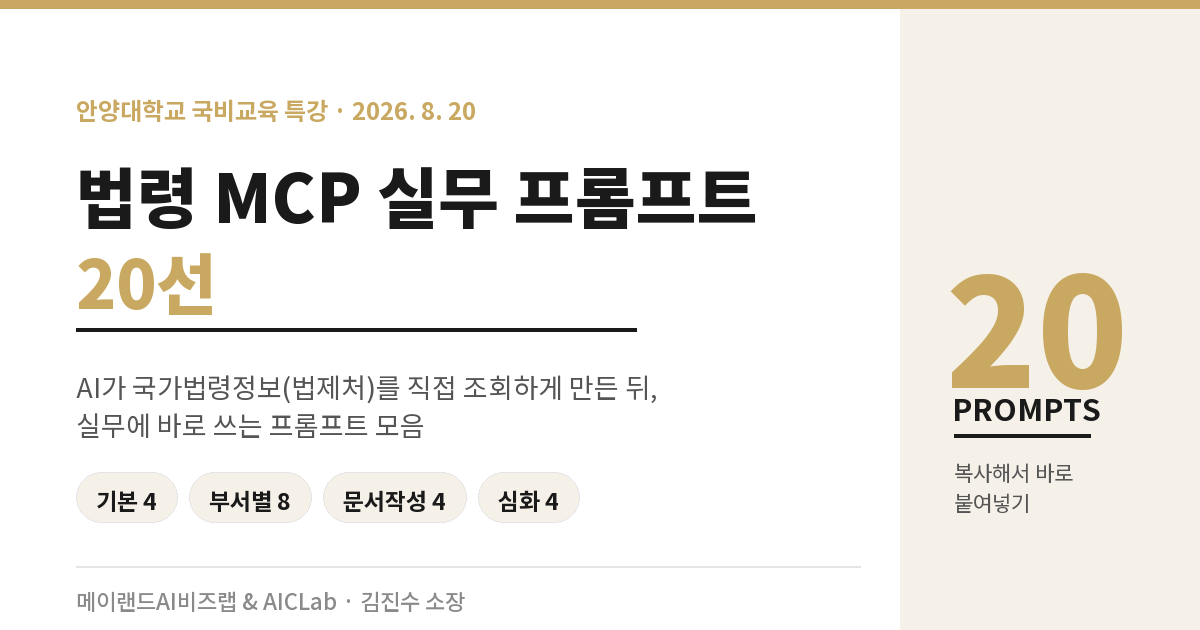
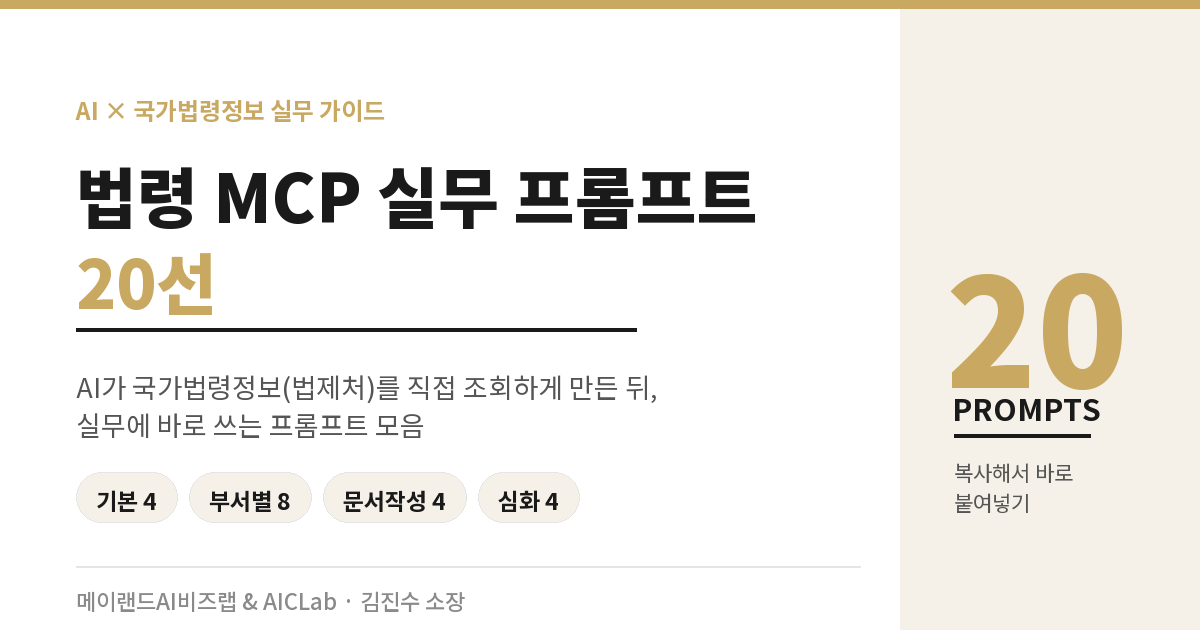
안양대학교 국비교육 특강 표기 제거
- 헤더 kick 라벨 및 푸터 특강 문구 삭제
- OG/트위터 image:alt 문구를 일반 설명으로 교체
- make_og.py eyebrow 문구 변경 후 og-image.png 재생성

Claude-Session: https://claude.ai/code/session_015XomGwisUDekZxMz511Q3u

Changed region(s): [[0.0617, 0.1508, 0.4008, 0.2111]]

diff --git a/index.html b/index.html
@@ -16,7 +16,7 @@
 <meta property="og:image:type" content="image/png">
 <meta property="og:image:width" content="1200">
 <meta property="og:image:height" content="630">
-<meta property="og:image:alt" content="법령 MCP 실무 프롬프트 20선 — 안양대학교 국비교육 특강 자료">
+<meta property="og:image:alt" content="법령 MCP 실무 프롬프트 20선 — AI 법령 조회 실무 자료">
 <meta property="og:locale" content="ko_KR">
 <meta property="og:site_name" content="AICLab 강의자료">
 
@@ -25,7 +25,7 @@
 <meta name="twitter:title" content="법령 MCP 실무 프롬프트 20선 — AICLab 김진수">
 <meta name="twitter:description" content="AI가 국가법령정보(법제처)를 직접 조회하게 만든 뒤 실무에 바로 쓰는 프롬프트 20종. 기본·부서별·문서작성·심화 4개 분류, 검색·복사 지원.">
 <meta name="twitter:image" content="https://kjs369369.github.io/law-mcp-prompts20/og-image.png">
-<meta name="twitter:image:alt" content="법령 MCP 실무 프롬프트 20선 — 안양대학교 국비교육 특강 자료">
+<meta name="twitter:image:alt" content="법령 MCP 실무 프롬프트 20선 — AI 법령 조회 실무 자료">
 
 <style>
 :root{--ink:#1A1A1A;--paper:#fff;--cream:#F5F0E8;--rule:#E5E5E5;--muted:#8A8A8A;--gold:#C9A961;--box:#FAFAF8}
@@ -73,7 +73,6 @@ footer a{color:var(--gold);text-decoration:none;font-weight:700}
 <div class="wrap">
 
 <header>
-  <div class="kick">안양대학교 국비교육 특강 · 2026. 8. 20</div>
   <h1>법령 MCP 실무 프롬프트 <span style="color:var(--gold)">20선</span></h1>
   <p class="sub">AI가 국가법령정보(법제처)를 직접 조회하게 만든 뒤, 실무에 바로 쓰는 프롬프트 모음입니다.<br>대괄호 <b>[ ]</b> 부분만 본인 상황으로 바꿔 쓰십시오.</p>
   <div class="chips">
@@ -306,7 +305,6 @@ footer a{color:var(--gold);text-decoration:none;font-weight:700}
   <a href="https://koica-law-mcp.vercel.app/">법령 MCP 설치 가이드</a> ·
   <a href="https://open.law.go.kr">OC 키 발급 (법제처)</a> ·
   <a href="https://claude.ai">Claude</a><br>
-  법령 MCP 실무 프롬프트 20선 · 2026.8.20 안양대학교 국비교육 특강<br>
   AI에이전트로 생존하다 | 메이랜드AI비즈랩 &amp; AICLab · 김진수 소장 · info@aiclab2020.com<br>
   <span style="color:#B0B0B0">※ 도구의 기능·플랜 조건은 2026년 8월 기준이며 변동될 수 있습니다.</span>
 </footer>

diff --git a/make_og.py b/make_og.py
@@ -54,8 +54,8 @@ def main():
 
     L = 76  # 좌측 여백
 
-    # eyebrow — 페이지 .kick 과 동일 문구
-    d.text((L, 92), "안양대학교 국비교육 특강 · 2026. 8. 20",
+    # eyebrow
+    d.text((L, 92), "AI × 국가법령정보 실무 가이드",
            font=f_bold(24), fill=GOLD)
 
     # 타이틀 (헤드라인 두 줄, 숫자만 골드)
